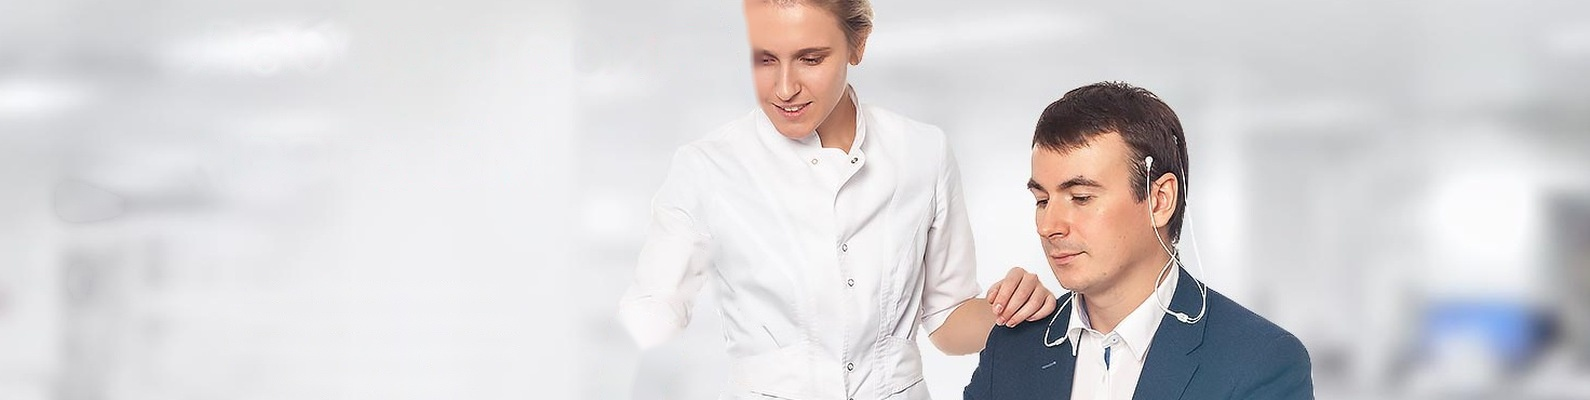
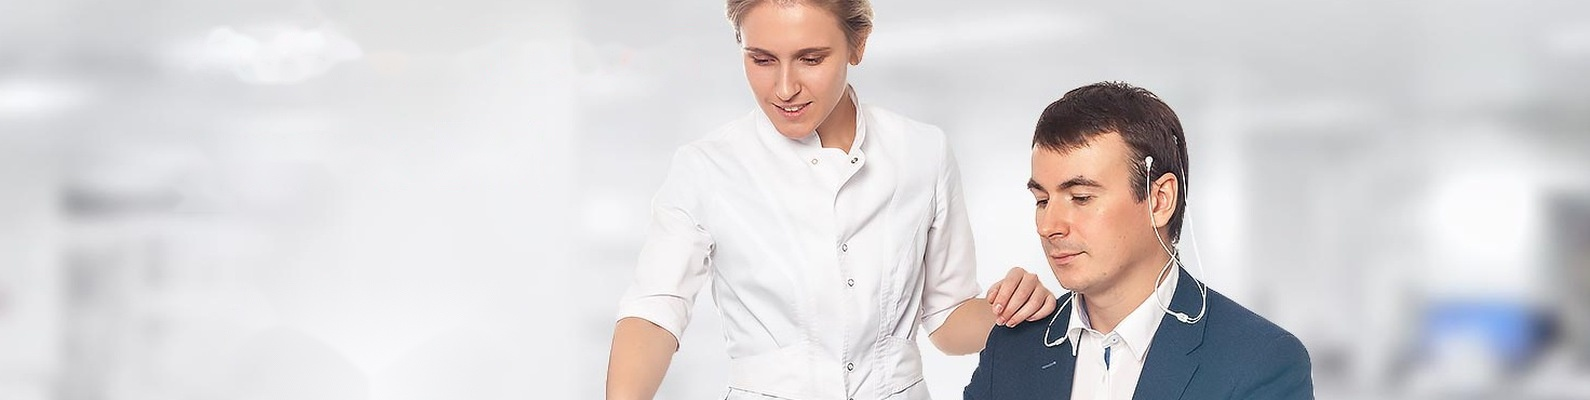
Баннер img01.jpg в шапке: восстановлено фото, текст — HTML поверх картинки
Предыдущая маска затирала не только текст: под неё попали рука и часть
лица девушки (маска шла до x<760 и брала все насыщенные пиксели, то есть
кожу). Картинка перерисована заново из оригинала:

- маска строится ТОЛЬКО в трёх прямоугольниках с текстом (заголовок,
  подзаголовок, абзац), правые границы — 712/568/552 px, то есть заведомо
  левее волос (x≈718) и предплечья (x≈595);
- внутри прямоугольников глифы находятся по разнице с локальным фоном
  (морфологическое закрытие), а не по «тёмное/насыщенное»;
- проверено программно: вне текстовых прямоугольников не изменился ни
  один пиксель, лицо и руки побайтово равны оригиналу.

Баннер переехал из середины страницы в шапку (hero):
- полноширинная картинка-подложка, поверх — обычный HTML-текст
  (плашка, H1, лид, кнопки, примечание), в саму картинку ничего не вшито;
- высота = ширина/3.2 с привязкой к левому краю, поэтому в кадре всегда
  x∈[0,1280] исходника: пустой фон под текст слева и оба человека справа;
- ≤1180 px — текст на белом сверху, баннер полосой под ним; ≤700 px полоса
  кадрируется на людей (по пропорции 4:1 она вышла бы в 90 px);
- прежний блок .fullbleed в середине страницы и правая карточка hero-sm
  убраны — их роль теперь у баннера.

Claude-Session: https://claude.ai/code/session_01SJrtaFn5xsz9obTaeBWdCu

diff --git a/www/index.html b/www/index.html
@@ -67,31 +67,50 @@ p.sub{color:var(--muted);max-width:660px;margin:0 0 44px;font-size:17.5px}
 .reveal{opacity:0;transform:translateY(24px);transition:opacity .75s cubic-bezier(.2,.7,.2,1),transform .75s cubic-bezier(.2,.7,.2,1)}
 .reveal.in{opacity:1;transform:none}
 
-/* hero */
-.hero{padding:74px 0 64px;position:relative;overflow:hidden}
-.hero::before{content:"";position:absolute;width:760px;height:760px;right:-260px;top:-320px;border-radius:50%;
-  background:radial-gradient(circle,rgba(227,135,149,.20),transparent 66%);pointer-events:none}
-.hero-grid{display:grid;grid-template-columns:1.02fr .98fr;gap:56px;align-items:center;position:relative}
-@media(max-width:980px){.hero-grid{grid-template-columns:1fr;gap:38px}}
+/* hero — полноширинный баннер, текст лежит поверх картинки как текст (не вшит в неё) */
+.hero{position:relative;overflow:hidden;background:var(--bg2);padding:0}
+.hero-bg{position:absolute;inset:0}
+/* высота = ширина/3.2 и привязка к левому краю: в кадре всегда x∈[0,1280] исходника —
+   пустой фон под текст слева и оба человека справа, независимо от ширины экрана */
+.hero-bg img{width:100%;height:100%;object-fit:cover;object-position:0% 32%;display:block;
+  animation:heroIn 1.2s cubic-bezier(.2,.7,.2,1) both}
+@keyframes heroIn{from{opacity:0;transform:scale(1.035)}to{opacity:1;transform:none}}
+.hero-scrim{position:absolute;inset:0;pointer-events:none;
+  background:linear-gradient(97deg,rgba(255,255,255,.97) 0%,rgba(255,255,255,.94) 26%,rgba(255,255,255,.72) 40%,
+    rgba(255,255,255,.24) 52%,rgba(255,255,255,0) 64%)}
+.hero-inner{position:relative;display:flex;flex-direction:column;justify-content:center;
+  min-height:31.25vw;padding:clamp(22px,1.9vw,34px) 0}
+.hero-copy{max-width:min(44%,510px)}
+.hero .btn{padding:13px 22px;font-size:15px}
 .pill{display:inline-flex;align-items:center;gap:10px;font-size:13px;font-weight:600;color:var(--plum);
-  background:var(--pink50);border:1px solid var(--pink100);border-radius:999px;padding:8px 16px}
+  background:rgba(253,244,245,.92);border:1px solid var(--pink100);border-radius:999px;padding:8px 16px}
 .pip{width:7px;height:7px;border-radius:50%;background:var(--crimson);animation:pip 2.4s infinite}
 @keyframes pip{0%{box-shadow:0 0 0 0 rgba(196,40,63,.45)}70%{box-shadow:0 0 0 11px rgba(196,40,63,0)}100%{box-shadow:0 0 0 0 rgba(196,40,63,0)}}
-.hero h1{margin-top:24px}
-.hero .lede{color:var(--ink2);font-size:clamp(17px,1.9vw,19.5px);margin:22px 0 0;max-width:540px}
-.hero-cta{display:flex;gap:13px;flex-wrap:wrap;margin-top:34px}
-.hero-note{margin-top:18px;font-size:14px;color:var(--faint)}
-.shot{position:relative;border-radius:22px;overflow:hidden;box-shadow:var(--sh);border:1px solid var(--line2);
-  animation:rise 1.1s cubic-bezier(.2,.7,.2,1) both}
-@keyframes rise{from{opacity:0;transform:translateY(22px) scale(.985)}to{opacity:1;transform:none}}
-.shot img{width:100%;height:clamp(300px,36vw,404px);object-fit:cover;object-position:50% 34%}
-.shot .tag{position:absolute;left:16px;bottom:16px;background:rgba(255,255,255,.93);backdrop-filter:blur(6px);
+.hero h1{margin-top:16px;font-size:clamp(26px,2.6vw,38px);line-height:1.06}
+.hero .lede{color:var(--ink2);font-size:clamp(15px,1.2vw,16.5px);margin:16px 0 0;line-height:1.5}
+.hero-cta{display:flex;gap:12px;flex-wrap:wrap;margin-top:22px}
+.hero-note{margin-top:14px;font-size:13px;color:var(--muted)}
+.tag{position:absolute;right:22px;bottom:20px;background:rgba(255,255,255,.93);backdrop-filter:blur(6px);
   border:1px solid var(--line);border-radius:12px;padding:10px 15px;font-size:13.5px;color:var(--plum);font-weight:600;
-  box-shadow:0 8px 24px -16px rgba(94,42,56,.7)}
-.wave{width:100%;height:52px;margin-top:26px;overflow:visible}
-.wave path{fill:none;stroke-width:2;stroke-linecap:round;stroke-dasharray:1700;stroke-dashoffset:1700;animation:draw 3.2s .3s ease-out forwards}
-.wave path.w2{animation-delay:.6s}
-@keyframes draw{to{stroke-dashoffset:0}}
+  box-shadow:0 8px 24px -16px rgba(94,42,56,.7);max-width:min(46vw,330px)}
+@media(max-width:1180px){
+  /* узкий экран: текст на белом сверху, баннер — полосой под ним, люди целиком в кадре */
+  .hero{display:flex;flex-direction:column-reverse;background:var(--bg)}
+  .hero-bg{position:relative;inset:auto;aspect-ratio:1590/400}
+  .hero-bg img{object-position:60% 30%}
+  .hero-scrim{display:none}
+  .hero-inner{min-height:0;padding:44px 0 40px}
+  .hero-copy{max-width:none}
+  .hero h1{font-size:clamp(30px,5.4vw,44px)}
+  .hero .lede{font-size:17px;max-width:620px}
+  .tag{right:14px;bottom:14px;font-size:12.5px;padding:8px 12px}
+}
+@media(max-width:700px){
+  /* на телефоне полоса по пропорции 4:1 вышла бы в 90 px — кадрируем на людей */
+  .hero-bg{aspect-ratio:auto;height:clamp(160px,44vw,210px)}
+  .hero-bg img{object-position:62% 26%}
+  .tag{display:none}
+}
 
 /* stats */
 .stats{display:grid;grid-template-columns:repeat(5,1fr);gap:0;border:1px solid var(--line);border-radius:var(--r);overflow:hidden;background:var(--bg2)}
@@ -205,14 +224,12 @@ footer{border-top:1px solid var(--line);padding:34px 0;color:var(--muted);font-s
 .foot-contact{display:flex;gap:18px;flex-wrap:wrap}
 .foot-contact a{color:inherit;text-decoration:none}
 .foot-contact a:hover{color:var(--crimson)}
-.fullbleed{width:100vw;position:relative;left:50%;transform:translateX(-50%);overflow:hidden;height:clamp(200px,30vw,360px)}
-.fullbleed img{width:100%;height:100%;object-fit:cover;object-position:50% 38%;display:block}
 .marq{border-block:1px solid var(--line);background:var(--bg2);padding:16px 0;overflow:hidden;white-space:nowrap}
 .mtrack{display:inline-flex;gap:40px;animation:scroll 38s linear infinite;font-size:14px;color:var(--muted)}
 .mtrack i{font-style:normal;display:inline-flex;align-items:center;gap:11px}
 .mtrack i::before{content:"";width:5px;height:5px;border-radius:50%;background:var(--rose)}
 @keyframes scroll{to{transform:translateX(-50%)}}
-@media (prefers-reduced-motion:reduce){*{animation:none!important;transition:none!important}.reveal{opacity:1;transform:none}.wave path{stroke-dashoffset:0}}
+@media (prefers-reduced-motion:reduce){*{animation:none!important;transition:none!important}.reveal{opacity:1;transform:none}}
 </style>
 </head>
 <body>
@@ -235,25 +252,22 @@ footer{border-top:1px solid var(--line);padding:34px 0;color:var(--muted);font-s
 
 <main id="top">
 <section class="hero">
-  <div class="wrap hero-grid">
-    <div>
+  <div class="hero-bg">
+    <img src="assets/img01.jpg" alt="Специалист НейроПРО проводит нейродиагностику: съём ЭЭГ и параметров вегетативной нервной системы">
+    <span class="hero-scrim" aria-hidden="true"></span>
+    <span class="tag">Съём ЭЭГ и параметров вегетативной нервной системы</span>
+  </div>
+  <div class="wrap hero-inner">
+    <div class="hero-copy">
       <span class="pill"><i class="pip"></i> 8 лет исследований · более 1300 диагностик</span>
       <h1>Тело не лжёт.<br>Спросите <span class="em">свой мозг</span>, а не своё мнение о себе</h1>
-      <p class="lede">НейроПРО — лаборатория повышения личной эффективности. За 40 минут на сертифицированном оборудовании биологической обратной связи мы снимаем объективную картину работы вашей нервной системы и объясняем, что с ней делать.</p>
+      <p class="lede">Лаборатория повышения личной эффективности. За 40 минут на сертифицированном оборудовании БОС снимаем объективную картину работы нервной системы — и объясняем, что с ней делать.</p>
       <div class="hero-cta">
         <a class="btn" href="#cta">Записаться на диагностику
           <svg width="16" height="16" viewBox="0 0 16 16" fill="none"><path d="M3 8h10M9 4l4 4-4 4" stroke="currentColor" stroke-width="1.8" stroke-linecap="round" stroke-linejoin="round"/></svg></a>
         <a class="btn ghost" href="#method">Как это работает</a>
       </div>
-      <p class="hero-note">Диагностика 40 минут · разбор с аналитиком · отчёт с рекомендациями за 3–5 дней</p>
-      <svg class="wave" viewBox="0 0 640 52" preserveAspectRatio="none" aria-hidden="true">
-        <path stroke="#c4283f" d="M0 26 h56 l10-15 8 30 9-34 10 26 11-7 h60 l9-12 9 22 9-26 10 20 11-5 h70 l10-16 8 30 9-33 10 25 12-6 h64 l9-11 9 20 9-24 10 19 11-4 h120"/>
-        <path class="w2" stroke="#e38795" d="M0 44 q40 -14 80 0 t80 0 80 -10 80 10 80 0 80 -12 80 12 80 0"/>
-      </svg>
-    </div>
-    <div class="shot">
-      <img src="assets/hero-sm.jpg" alt="Специалист НейроПРО устанавливает электроды для снятия ЭЭГ во время нейродиагностики">
-      <span class="tag">Съём ЭЭГ и параметров вегетативной нервной системы</span>
+      <p class="hero-note">40 минут · разбор с аналитиком · отчёт за 3–5 дней</p>
     </div>
   </div>
 </section>
@@ -334,9 +348,6 @@ footer{border-top:1px solid var(--line);padding:34px 0;color:var(--muted);font-s
   </div>
 </section>
 
-<div class="fullbleed">
-  <img src="assets/img01.jpg" alt="Специалист НейроПРО и клиент во время нейродиагностики: установка датчиков биологической обратной связи">
-</div>
 <section id="metrics" style="background:var(--bg2);border-block:1px solid var(--line)">
   <div class="wrap">
     <div class="reveal">
